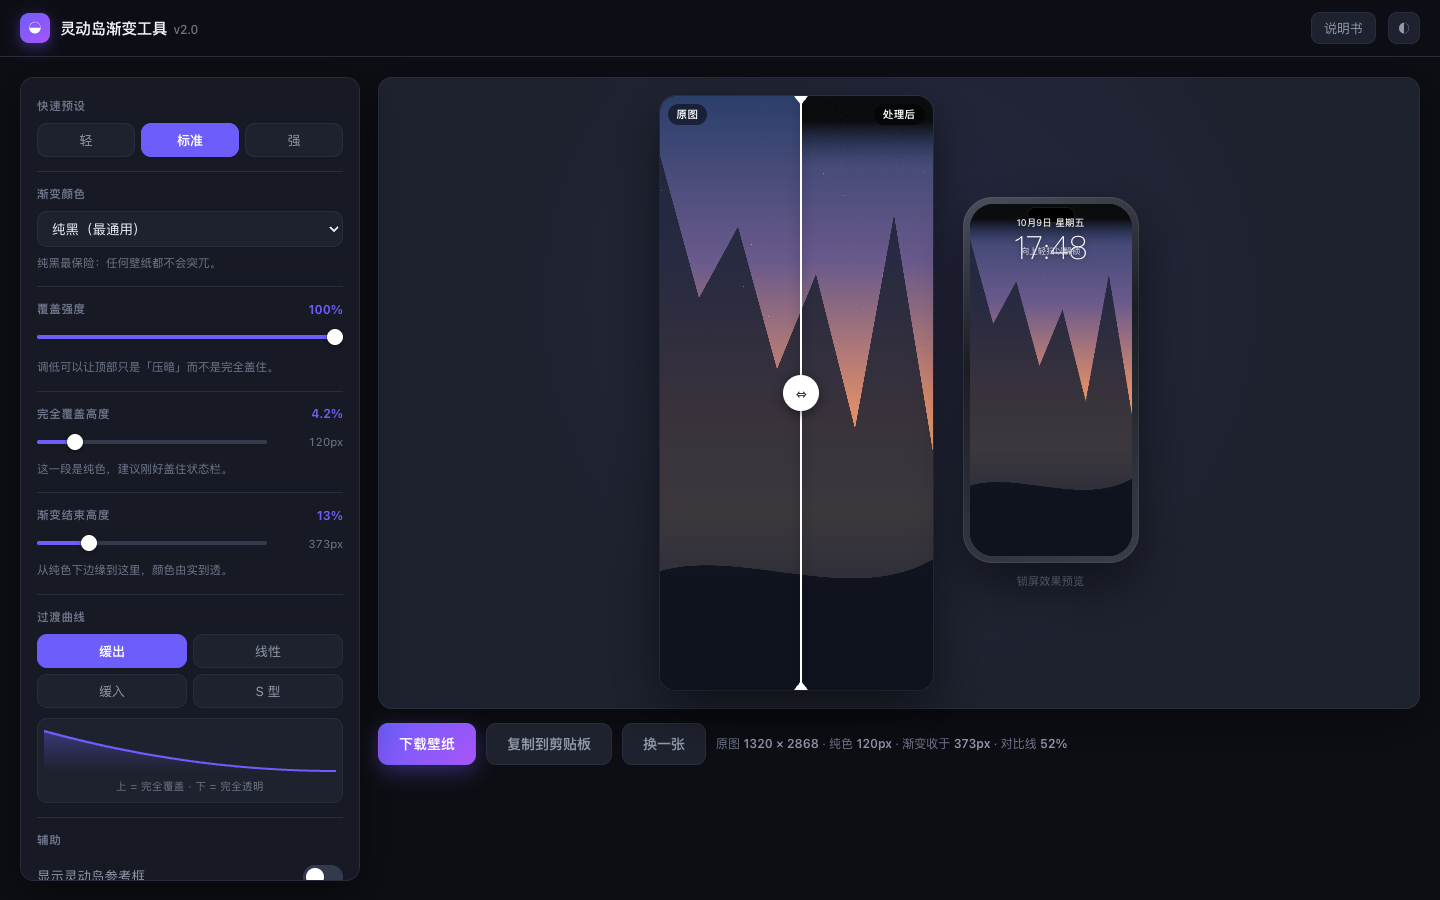
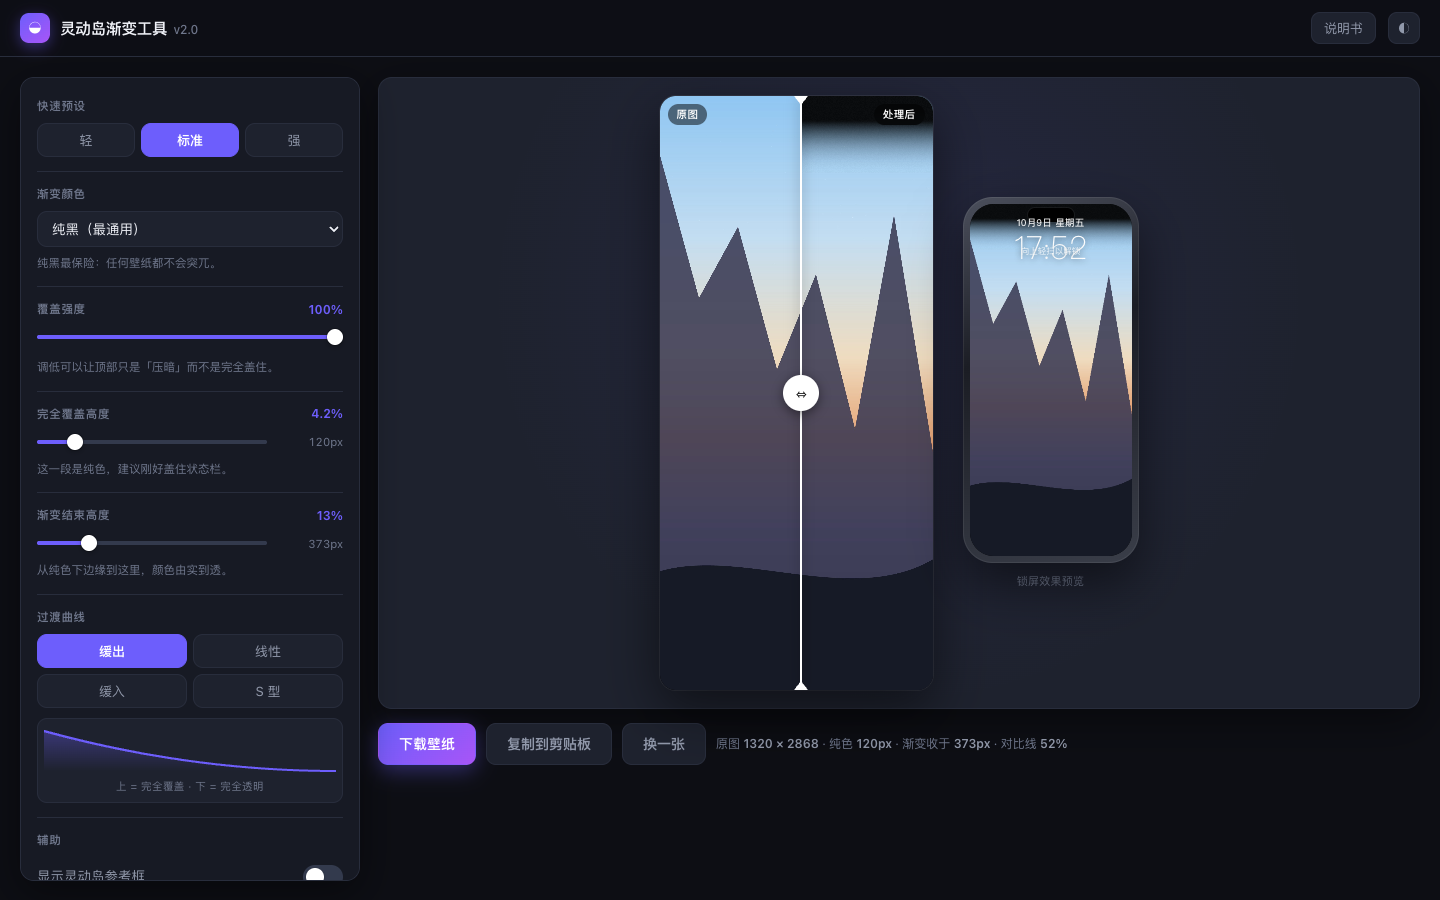
示例图换成亮色天空，让顶部蒙版的效果一眼可见

Changed region(s): [[0.4375, 0.0933, 0.8125, 0.6533]]

diff --git a/index.html b/index.html
@@ -770,30 +770,31 @@ function makeDemo() {
   const x = c.getContext('2d');
 
   const sky = x.createLinearGradient(0, 0, 0, h);
-  sky.addColorStop(0,    '#2b3f6b');
-  sky.addColorStop(0.28, '#6a5a8c');
-  sky.addColorStop(0.52, '#d98b6a');
-  sky.addColorStop(0.70, '#f0b56f');
-  sky.addColorStop(1,    '#1b2233');
+  sky.addColorStop(0,    '#8fc6f2');   // 亮色天空 —— 顶部的黑色蒙版才看得出来
+  sky.addColorStop(0.24, '#c3ddf1');
+  sky.addColorStop(0.44, '#efdcc0');
+  sky.addColorStop(0.58, '#e5a273');
+  sky.addColorStop(0.72, '#7a6f96');
+  sky.addColorStop(1,    '#161b29');
   x.fillStyle = sky; x.fillRect(0, 0, w, h);
 
   // 远山
-  x.fillStyle = 'rgba(28,34,52,.85)';
+  x.fillStyle = 'rgba(58,58,84,.88)';
   x.beginPath(); x.moveTo(0, h * 0.66);
   const pts = [0.10,0.34,0.22,0.46,0.30,0.56,0.20,0.60];
   for (let i = 0; i < pts.length; i++) x.lineTo(w * (i / (pts.length - 1)), h * pts[i]);
   x.lineTo(w, h); x.lineTo(0, h); x.closePath(); x.fill();
 
   // 前景
-  x.fillStyle = 'rgba(14,18,28,.95)';
+  x.fillStyle = 'rgba(20,24,36,.95)';
   x.beginPath(); x.moveTo(0, h * 0.80);
   x.bezierCurveTo(w * .3, h * .76, w * .7, h * .86, w, h * .78);
   x.lineTo(w, h); x.lineTo(0, h); x.closePath(); x.fill();
 
   // 一点星
-  for (let i = 0; i < 90; i++) {
-    const sx = Math.random() * w, sy = Math.random() * h * 0.4;
-    x.globalAlpha = Math.random() * 0.6;
+  for (let i = 0; i < 70; i++) {
+    const sx = Math.random() * w, sy = Math.random() * h * 0.3;
+    x.globalAlpha = Math.random() * 0.5;
     x.fillStyle = '#fff';
     x.fillRect(sx, sy, 2, 2);
   }

diff --git a/README.en.md b/README.en.md
@@ -14,8 +14,8 @@ Dynamic Island and status bar blend into the picture instead of slicing it.
 
 [简体中文](README.md) · English
 
-<img src="screenshots/example-before.jpg" width="220" alt="Before">
-<img src="screenshots/example-after.jpg" width="220" alt="After">
+<img src="screenshots/example-before.jpg" width="240" alt="Before">
+<img src="screenshots/example-after.jpg" width="240" alt="After">
 
 </div>
 

diff --git a/README.md b/README.md
@@ -14,8 +14,8 @@
 
 简体中文 · [English](README.en.md)
 
-<img src="screenshots/example-before.jpg" width="220" alt="原图">
-<img src="screenshots/example-after.jpg" width="220" alt="处理后">
+<img src="screenshots/example-before.jpg" width="240" alt="原图">
+<img src="screenshots/example-after.jpg" width="240" alt="处理后">
 
 </div>
 
